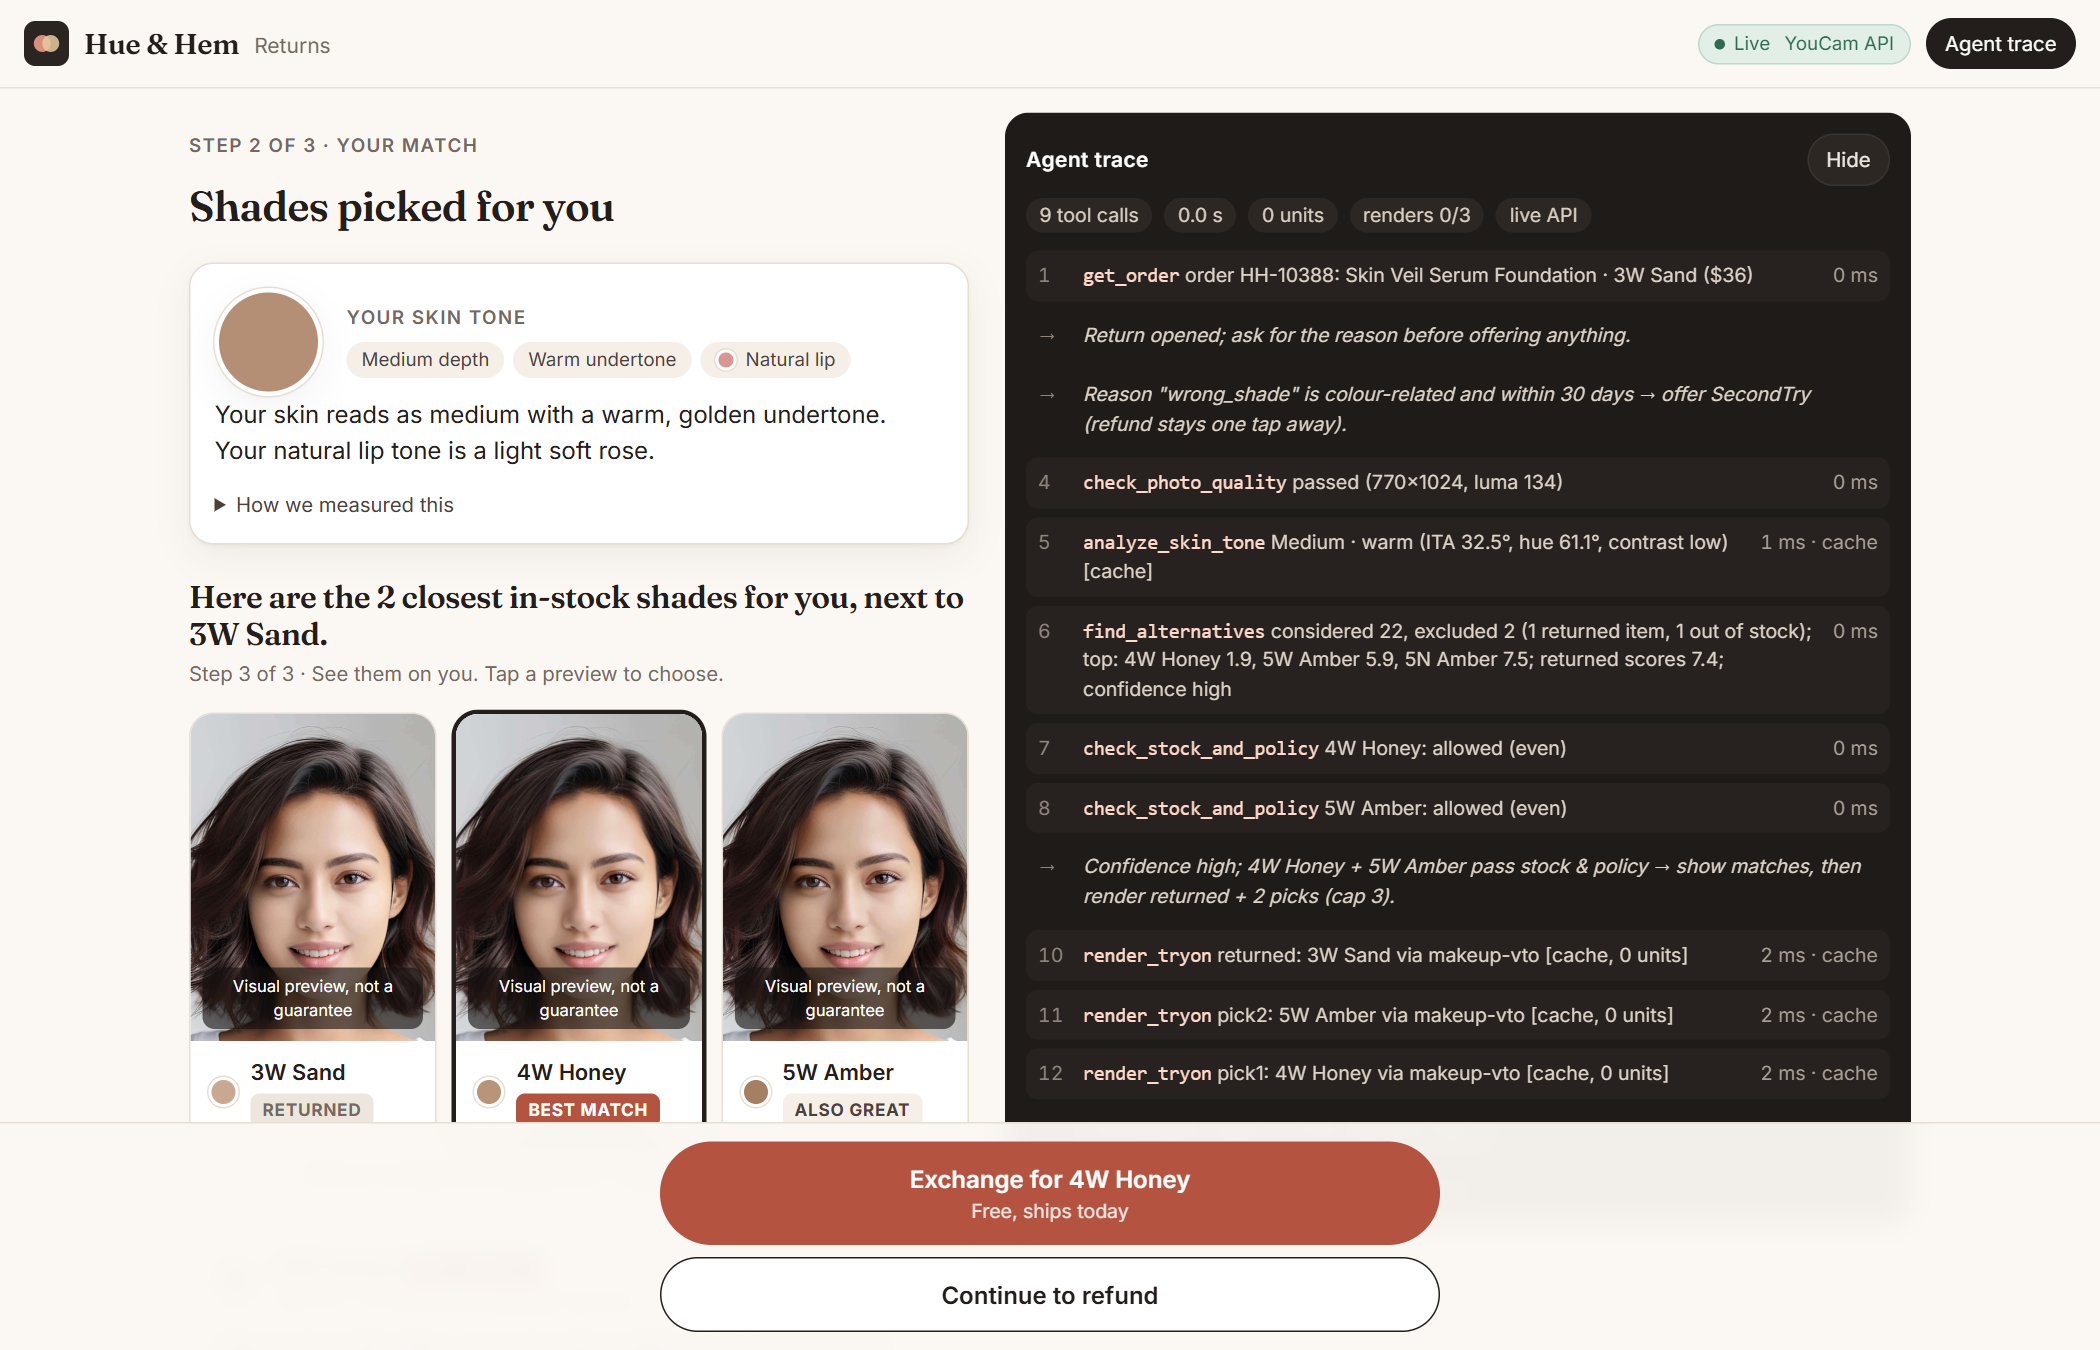
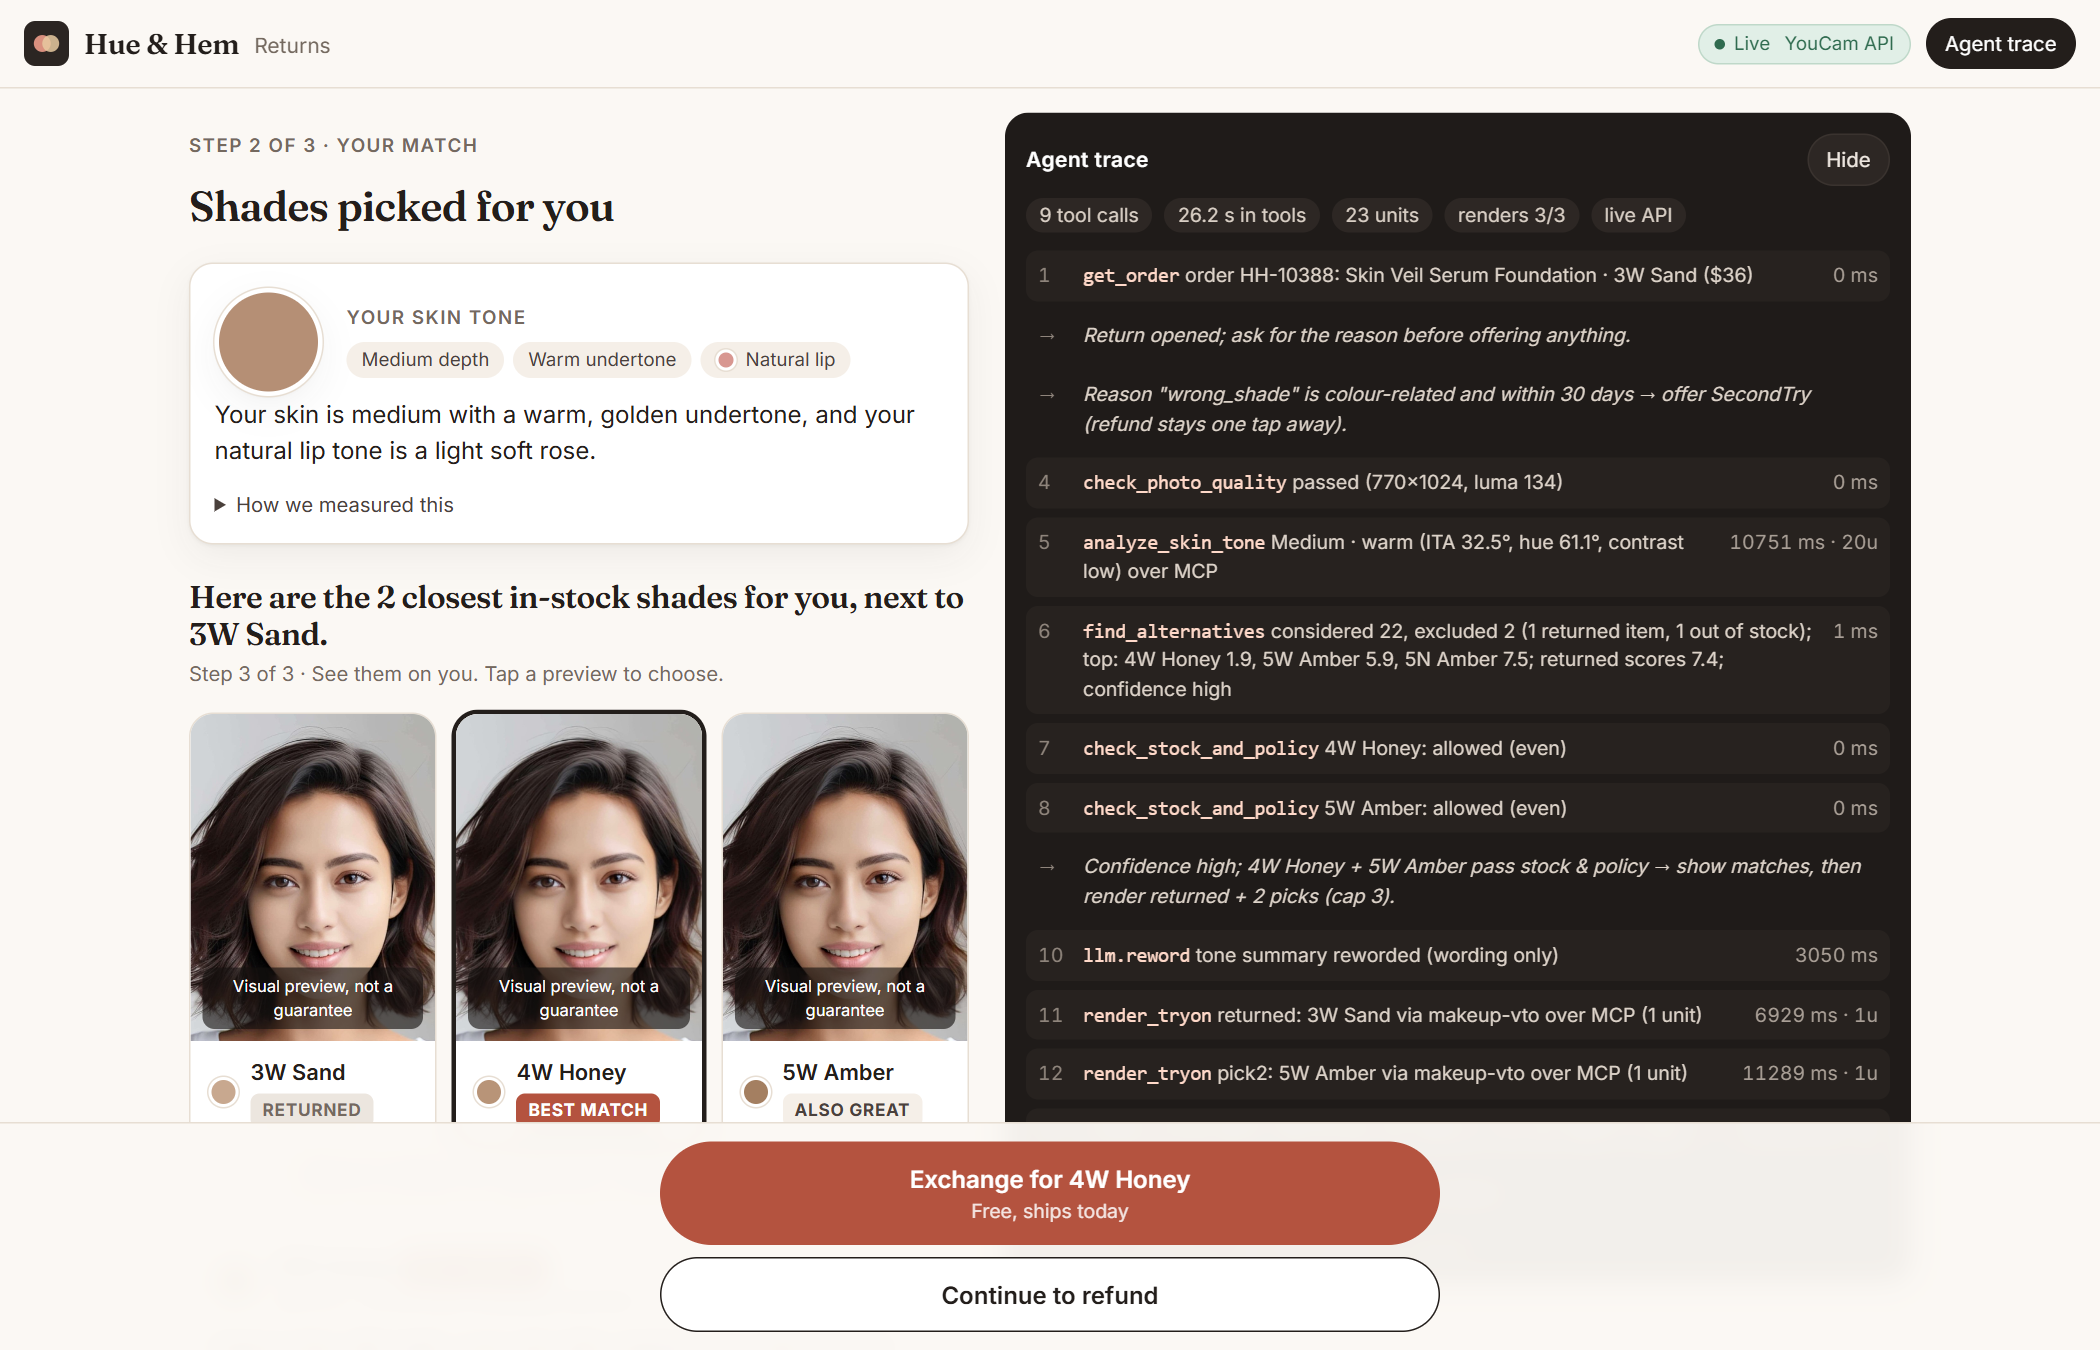
Trace: wall-clock tool time; live MCP trace screenshot
- The trace chip now shows wall-clock time inside tool calls (parallel
  previews' intervals merged) instead of the sum of durations, labelled
  "s in tools". A live foundation return reads 26.2 s.
- Screenshot 04 retaken from a live, uncached return over MCP (23 units,
  every YouCam call "over MCP"), so it shows real timings and units.
- screenshots.mjs --only <n,...> retakes selected shots without spending
  units on the others.
- No focus ring on headings that receive programmatic focus (tabindex=-1).

Claude-Session: https://claude.ai/code/session_013J8H7Yxp3cMY3Qm41Doi5L

diff --git a/public/js/app.js b/public/js/app.js
@@ -522,11 +522,18 @@ function renderTrace() {
   $layout.classList.toggle('with-trace', state.traceOpen);
   if (!state.traceOpen) return;
   const tools = s.trace.filter((t) => t.kind === 'tool');
-  const totalMs = tools.reduce((a, t) => a + (t.ms || 0), 0);
+  // Wall-clock time inside tool calls: parallel renders overlap, so merge their intervals.
+  const spans = tools.map((t) => [Date.parse(t.at), Date.parse(t.at) + (t.ms || 0)]).sort((a, b) => a[0] - b[0]);
+  let totalMs = 0;
+  let end = -Infinity;
+  for (const [a, b] of spans) {
+    if (b > end) totalMs += b - Math.max(a, end);
+    end = Math.max(end, b);
+  }
   $trace.innerHTML = `
     <div class="trace-panel">
       <div class="row" style="justify-content:space-between"><h2>Agent trace</h2><button class="icon-btn" style="background:#2d2724;color:#efe8e1;border-color:#3a332f" data-action="toggle-trace">Hide</button></div>
-      <div class="sum"><span>${tools.length} tool calls</span><span>${(totalMs / 1000).toFixed(1)} s</span><span>${s.unitsUsed} units</span><span>renders ${s.rendersUsed}/${s.maxRenders}</span><span>${s.mode === 'live' ? 'live API' : 'mock'}</span></div>
+      <div class="sum"><span>${tools.length} tool calls</span><span title="Wall-clock time spent in tool calls (parallel previews overlap)">${(totalMs / 1000).toFixed(1)} s in tools</span><span>${s.unitsUsed} units</span><span>renders ${s.rendersUsed}/${s.maxRenders}</span><span>${s.mode === 'live' ? 'live API' : 'mock'}</span></div>
       <ol class="trace-list">
         ${s.trace
           .map((t, i) => {

diff --git a/public/css/app.css b/public/css/app.css
@@ -34,6 +34,8 @@ img { max-width: 100%; display: block; }
 button, input, select { font: inherit; color: inherit; }
 a { color: inherit; }
 :focus-visible { outline: 3px solid var(--focus); outline-offset: 2px; border-radius: 6px; }
+/* Headings get programmatic focus on each step (for screen readers); they are not interactive, so no ring. */
+[tabindex="-1"]:focus { outline: none; }
 .sr-only { position: absolute; width: 1px; height: 1px; padding: 0; margin: -1px; overflow: hidden; clip: rect(0 0 0 0); white-space: nowrap; border: 0; }
 
 /* ---------- shell ---------- */
